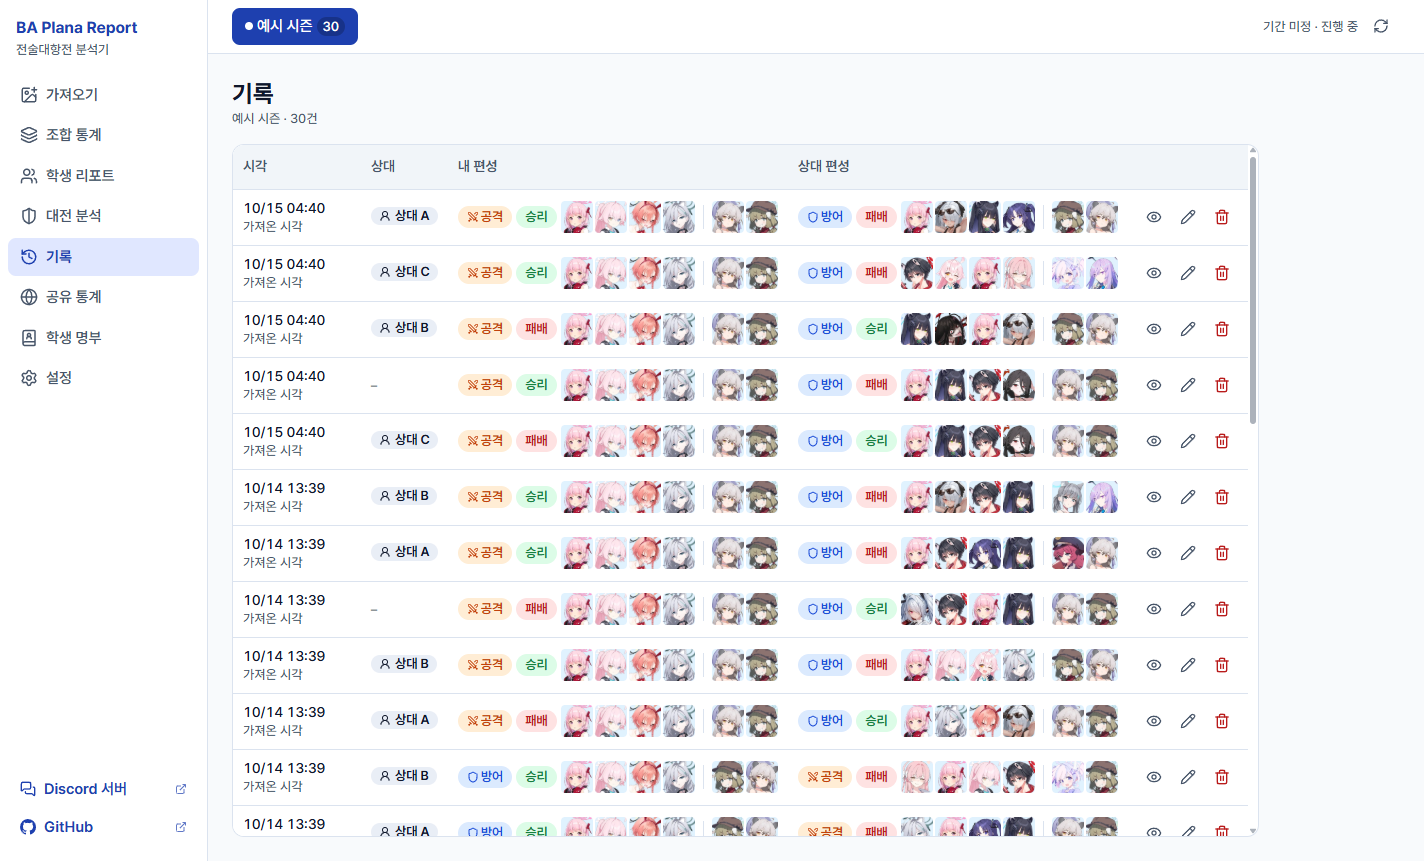
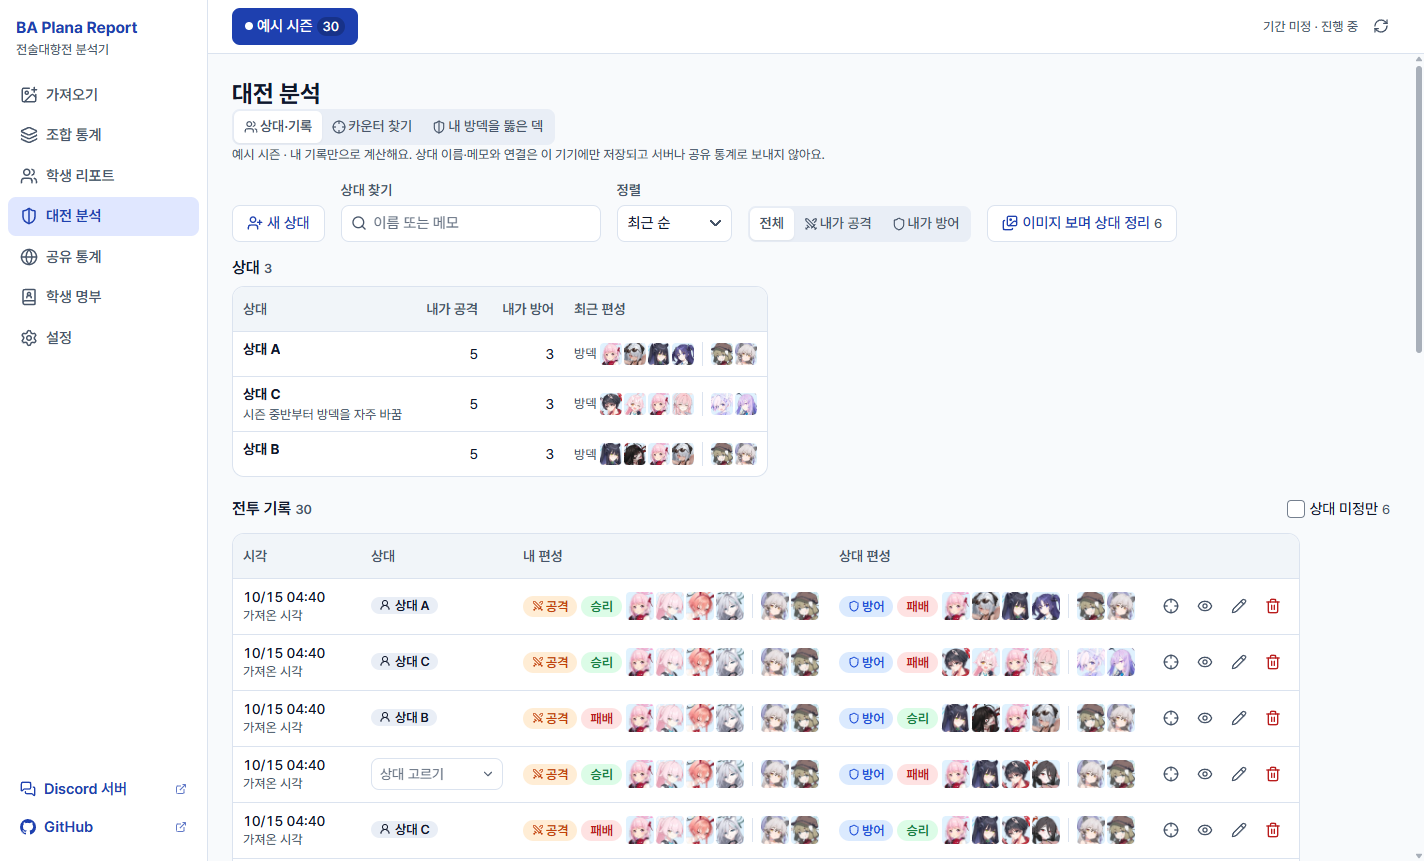
README: 기록 merged into 대전 분석, nickname OCR in the sort dialog
- 대전 분석 > 상대·기록: opponent list beside the battle table, link
  battles from the table, summary when an opponent is selected
- 이미지 보며 상대 정리 reads nicknames on the device to match the names
  you gave, suggests similar names and possible renames
- Privacy: nicknames are read only in that dialog, on the device; the
  read text and image comparisons are dropped when it closes

Changed region(s): [[0.0, 0.0906, 0.927, 1.0], [0.9888, 0.0604, 1.0, 0.4228], [0.8961, 0.5738, 0.9888, 0.6039]]

diff --git a/README.md b/README.md
@@ -51,9 +51,7 @@
   - 한 전투에서 내 조합과 상대 조합이 각각 한 건씩 기록되므로, 상대가 쓴 조합의 승률도 쌓입니다.
   - 판수가 적은 조합은 "표본 부족"으로 표시하고, 숨길 수도 있습니다.
 - **CSV로 내보내기**: 조합 통계·학생 리포트·공유 통계 표를 CSV 파일로 저장해 엑셀이나 구글 시트에서 열 수 있습니다. 화면에 보이는 필터·정렬 그대로 내보내며, 상대 이름·메모는 넣지 않습니다.
-- **기록**: 저장한 전투를 다시 보고, 고치고, 다른 시즌으로 옮기거나 지울 수 있습니다.
-
-![기록 화면](docs/images/battles.png)
+- **전투 기록**: 저장한 전투는 대전 분석의 "상대·기록"에서 시간순 표로 다시 보고, 고치고, 다른 시즌으로 옮기거나 지울 수 있습니다([대전 분석](#대전-분석)).
 
 ### 학생 리포트
 
@@ -69,23 +67,29 @@
 
 ### 대전 분석
 
-![대전 분석: 상대별 기록](docs/images/defense.png)
+![대전 분석: 상대·기록](docs/images/battles.png)
 
 내 기록만으로 기기 안에서 계산합니다.
 
-- **상대별 기록**: 리포트를 저장할 때(또는 나중에) 상대를 고르거나 새 이름을 붙이면, 그 상대와의 전투를 공격·방어 모두 모아 보여 줍니다.
-  - **내가 공격한 판(상대 방덱)**: 그 상대의 최근 방덱 n회와 방덱이 바뀐 것으로 보인 횟수, 내 공격 승패
-  - **상대가 나를 공격한 판(상대 공덱)**: 상대가 쓴 공덱별 내 방어 승률과 공덱 이력. 상대는 공격할 상대(내 방덱)에 맞춰 공덱을 고르므로, 바뀐 횟수는 관측 사이의 차이로만 봅니다.
-  - 전체 / 내가 공격 / 내가 방어로 나눠 볼 수 있고, 넓은 창에서는 두 구역을 좌우로 놓습니다.
-- 닉네임을 읽지 않으므로 상대 이름은 직접 붙이며, 같은 사람으로 확인되면 합칠 수 있습니다. **익명 상대는 한 상대로 묶지 않습니다.** 익명은 여러 사람이 섞이고 켰다 껐다 할 수 있으므로, 누구인지 알면 그 상대에 연결하고 모르면 "익명 · 상대 분석에서 빼기"를 고릅니다. 뺀 전투도 편성과 승패는 카운터 찾기·통계에 그대로 쓰이며, 앱이 익명이 누구인지 추정하지는 않습니다.
+- **상대·기록**: 왼쪽은 상대 목록, 오른쪽은 이 시즌 전투 기록 표입니다(넓은 창에서는 나란히, 좁으면 위아래). 표에서 전투를 고치거나 지우고 원본 리포트를 볼 수 있고, 상대를 정하지 않은 전투는 상대 칸에서 이름으로 찾아 바로 연결합니다(새 이름을 적으면 새 상대). 공격 판에는 "이 방덱 카운터 찾기" 버튼이 있습니다.
+- **상대를 고르면** 그 상대와의 전투만 남기고 위에 요약을 붙입니다.
+  - **내가 공격한 판(상대 방덱)**: 방덱이 바뀐 것으로 보인 횟수, 내 공격 승패, 이 상대에게 쓸 덱
+  - **상대가 나를 공격한 판(상대 공덱)**: 상대가 쓴 공덱별 내 방어 승률. 상대는 공격할 상대(내 방덱)에 맞춰 공덱을 고르므로, 바뀐 횟수는 관측 사이의 차이로만 봅니다.
+  - 전체 / 내가 공격 / 내가 방어로 나눠 볼 수 있습니다.
+
+![대전 분석: 상대를 고른 화면](docs/images/defense.png)
+
+- 같은 사람으로 확인되면 상대를 합칠 수 있습니다. **익명 상대는 한 상대로 묶지 않습니다.** 익명은 여러 사람이 섞이고 켰다 껐다 할 수 있으므로, 누구인지 알면 그 상대에 연결하고 모르면 "익명 · 상대 분석에서 빼기"를 고릅니다. 뺀 전투도 편성과 승패는 카운터 찾기·통계에 그대로 쓰이며, 앱이 익명이 누구인지 추정하지는 않습니다.
+- **이미지 보며 상대 정리**: 상대를 정하지 않은 전투를 이 기기에 남은 리포트 이미지로 정리합니다.
+  - 먼저 리포트의 상대 닉네임을 기기 안에서 글자로 읽어(OCR) 내가 붙인 상대 이름과 맞춰 봅니다. 이름과 프로필(대표 학생·플레이트)이 모두 맞는 전투는 미리 골라 두어 한 번에 연결할 수 있고(되돌리기 가능), 이름만 맞거나 프로필이 다른 전투는 보여 주되 고르지 않습니다.
+  - 남은 전투는 프로필 그림이 거의 같은 것끼리 묶어 보여 주며, 묶음마다 비슷한 이름, 닉네임을 바꿨을 수 있는 상대(프로필이 비슷할 때, 그 상대가 써 온 덱과 나란히), 읽은 이름으로 새 상대 만들기를 제안합니다. 묶음과 제안은 참고일 뿐이니 누구인지는 직접 정해 주세요.
 
 ![대전 분석: 상대가 나를 공격한 판](docs/images/opponent-defense.png)
 
-- **이미지 보며 상대 정리**: 이 기능 전에 가져온 공격·방어 기록도, 이 기기에 남은 리포트 이미지에서 상대 프로필 부분(닉네임·대표 학생·배너)만 잘라 크게 보여 주며 상대를 정할 수 있습니다. 프로필 그림이 거의 같은 기록은 같은 상대일 수 있어 한 묶음으로 보여 주므로 묶음째 연결할 수 있고, 방금 연결한 것은 되돌릴 수 있습니다. 묶음은 제안일 뿐이니, 다른 사람이 섞였으면 그 기록만 빼고 연결하세요.
 - **이 상대에게 쓸 덱**: 내가 공격한 판에서 그 상대가 쓴 방덱(최근일수록 비중 크게)과 똑같은 방덱을 상대로 한 내 공격 기록으로 덱을 추천합니다. 방덱마다 판수가 적으면 낮게 잡고, 싸워 보지 않은 방덱은 0으로 쳐서 한쪽 방덱 기록만 많은 덱이 과하게 오르지 않게 합니다. 점수는 순서를 정하는 값이며 승률이 아니므로, 덱마다 검증한 방덱 수와 근거 판수를 함께 보여 줍니다. 이번 시즌 기록이 없으면 모든 시즌 기록을 참고합니다.
 - **카운터 찾기**: 고른 방덱과 싸운 내 공격덱을 같은 방덱 / 같은 학생·스트라이커 배치만 다름 / 비슷한 방덱(4~5명 같음, 참고용)으로 나눠 승률과 함께 보여 줍니다. 판수가 적은 100%보다 표본이 큰 높은 승률이 위에 오도록 정렬하고, **학생 명부에서 보유 학생을 체크하면** 지금 짤 수 있는 덱만 골라 볼 수 있습니다.
 - **내 방덱을 뚫은 덱**: 내 방덱별 방어 승률과, 그 방덱을 만난 공격덱의 승률(만난 모든 판 기준)을 보여 줍니다.
-- 전투 시각은 스크린샷 파일 시각을 기본으로 쓰고, 가져오기·기록 화면에서 고칠 수 있습니다. 시각을 모르는 기록이 섞이면 순서와 변경 횟수를 "추정"이라고 표시합니다.
+- 전투 시각은 스크린샷 파일 시각을 기본으로 쓰고, 가져오기 화면과 전투 기록에서 고칠 수 있습니다. 시각을 모르는 기록이 섞이면 순서와 변경 횟수를 "추정"이라고 표시합니다.
 - 상대 이름·메모는 이 기기에만 저장됩니다([개인정보 보호](#개인정보-보호)).
 
 ![대전 분석: 카운터 찾기](docs/images/counters.png)
@@ -155,8 +159,8 @@
 ### 기기 밖으로 보내지 않는 것
 
 - **스크린샷과 이미지는 어디로도 보내지 않습니다.** 인식(이미지 처리·글자 인식)은 전부 PC나 브라우저 안에서 하며, 외부 AI·LLM 서비스를 쓰지 않습니다. 로그인해 동기화해도 이미지는 각 기기에만 남습니다.
-- **게임 닉네임을 자동으로 읽지 않습니다.** 전투 기록(텍스트)에도, 서버에도 들어가지 않습니다. 다만 이 기기에 저장되는 리포트 이미지에는 원본 그대로 보입니다.
-- **같은 상대 묶음 제안은 그림끼리만 비교합니다.** 이 기기에 저장된 리포트 이미지의 상대 프로필 부분을 기기 안에서 비교하며, 닉네임을 글자로 바꾸지 않습니다. 비교 결과는 저장하거나 보내지 않고, 정리 화면을 닫으면 버립니다. 누구인지는 사용자가 이미지를 보고 정합니다.
+- **게임 닉네임은 "이미지 보며 상대 정리"에서만, 기기 안에서 읽습니다.** 그 화면을 열면 저장된 리포트의 상대 닉네임 줄을 PC나 브라우저 안에서 글자로 읽어(OCR) 내가 붙인 상대 이름과 맞춰 봅니다. 읽은 글자는 그 화면을 닫으면 버리고, 전투 기록(텍스트)에도 서버에도 들어가지 않습니다. 사용자가 만든 상대 이름과 확인한 연결만 이 기기(와 백업 파일)에 남습니다. 이 기기에 저장되는 리포트 이미지에는 닉네임이 원본 그대로 보입니다.
+- **같은 상대 묶음과 닉네임 변경 제안은 그림끼리 비교합니다.** 이 기기에 저장된 리포트 이미지의 상대 프로필 부분(대표 학생·플레이트)을 기기 안에서 비교하며, 비교 결과는 저장하거나 보내지 않고 정리 화면을 닫으면 버립니다. 이름이나 프로필이 같아도 같은 사람이라고 단정하지 않으며, 누구인지는 사용자가 정합니다. "익명"으로 읽힌 상대에게는 이름·프로필로 아무것도 제안하지 않습니다.
 - **대전 분석의 상대 이름·메모는 이 기기에만 저장합니다.** 상대 이름은 사용자가 직접 붙입니다. 이 이름·메모와 "어느 전투가 어느 상대였는지"의 연결은 로컬 백업 파일(ZIP)에는 들어가지만, 서버 동기화·공유 통계·서버 데이터 내려받기에는 들어가지 않으므로 새 기기에서 로그인해도 복구되지 않습니다. 실제 닉네임을 이름으로 적었다면 그 이름이 이 기기와 백업 파일에 남는다는 점에 유의해 주세요.
 - **데스크톱 앱에는 계정 기능이 없습니다.** 기록은 PC 안에만 저장됩니다.
 - 앱이 인터넷에서 **받기만** 하는 것: 학생 목록·스킬(이 리포의 `data` 브랜치 또는 SchaleDB), 학생 아이콘(SchaleDB), 공식 시즌 목록·기본 별칭·공유 통계(웹 버전 사이트). 이때 내 기록이나 식별 정보를 함께 보내지 않습니다.
